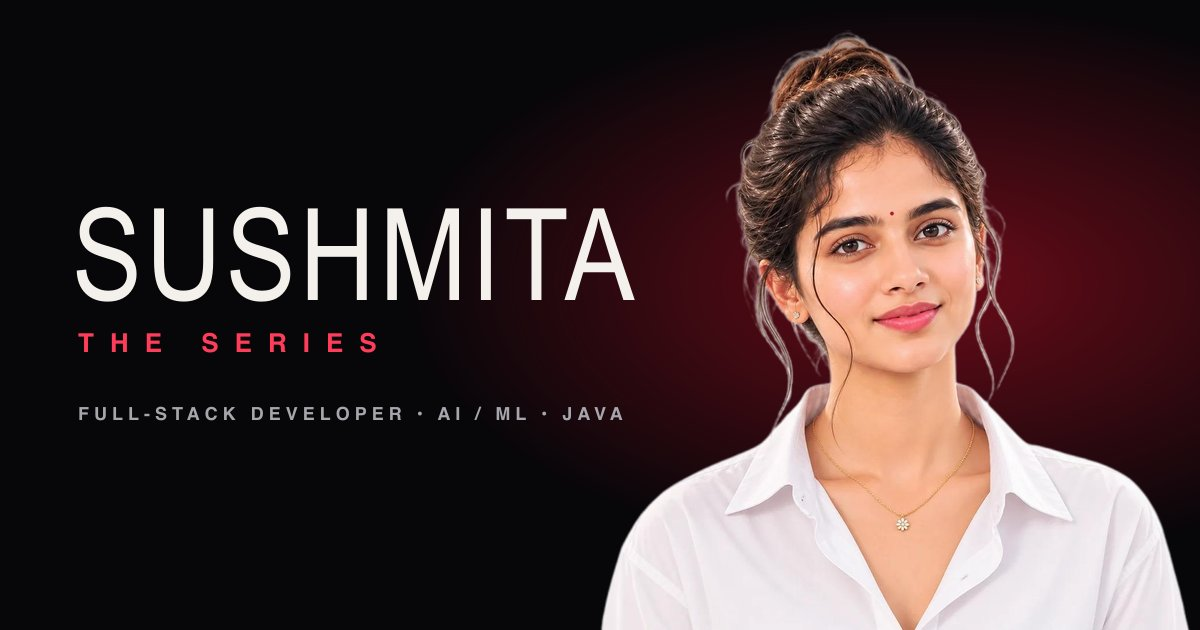
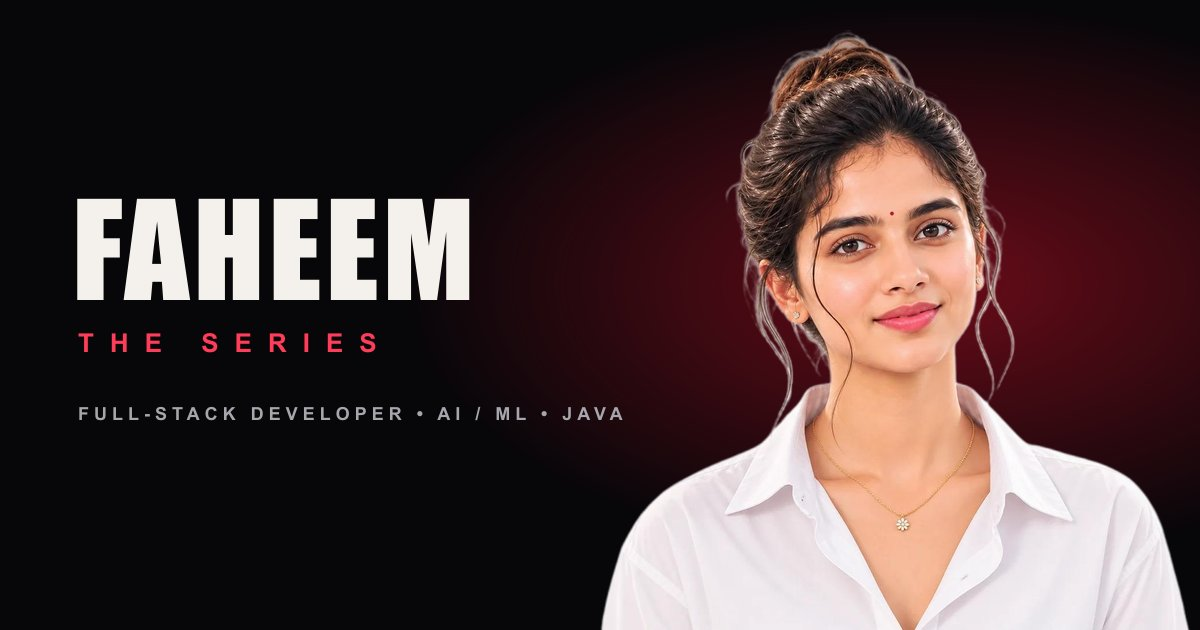
Rebrand portfolio for Faheem Tanoli
Update portfolio content, metadata, visuals, profile identifiers, and project branding from Sushmita Dasari to Faheem Ehsan Tanoli.

Changed region(s): [[0.0617, 0.3016, 0.5242, 0.4825], [0.2158, 0.5429, 0.2467, 0.573]]

diff --git a/src/data/portfolio.ts b/src/data/portfolio.ts
@@ -1,5 +1,5 @@
 /**
- * Central portfolio data — generated from Sushmita's resume (Sushmita_dasari.pdf).
+ * Central portfolio data — generated from the resume.
  * Every fact on the site comes from this file. Update it here and the whole site follows.
  * Nothing here should be added unless it appears on the resume.
  */
@@ -7,12 +7,12 @@
 export type Palette = { from: string; via: string; to: string; accent: string };
 
 export const profile = {
-  fullName: 'Dasari Venkata Ratna Sri Sushmita',
-  displayName: 'Sushmita Dasari',
-  firstName: 'SUSHMITA',
+  fullName: 'Faheem Ehsan Tanoli',
+  displayName: 'Faheem Ehsan Tanoli',
+  firstName: 'FAHEEM',
   seriesTag: 'THE SERIES',
   /** Fictional studio card shown at the very start of the opening sequence. */
-  originalLabel: 'A DASARI ORIGINAL',
+  originalLabel: 'A TANOLI ORIGINAL',
   role: 'Full-Stack Developer',
   tagline: ['Full-Stack Developer', 'AI / ML', 'Java'],
   intro:
@@ -27,7 +27,7 @@ export const profile = {
   portrait: {
     src: '/assets/portrait-720.webp',
     srcSet: '/assets/portrait-420.webp 420w, /assets/portrait-720.webp 720w, /assets/portrait-1100.webp 1100w',
-    alt: 'Portrait of Sushmita Dasari',
+    alt: 'Portrait of Faheem Ehsan Tanoli',
   },
   interests: ['System Design', 'Cloud Computing (AWS)', 'Machine Learning'],
 };
@@ -563,7 +563,7 @@ export const introSlides: IntroSlide[] = [
   },
 ];
 
-export type ProfileId = 'sushmita' | 'recruiter' | 'developer' | 'creative';
+export type ProfileId = 'faheem' | 'recruiter' | 'developer' | 'creative';
 export type SectionId = 'about' | 'journey' | 'originals' | 'picks' | 'skills' | 'moments' | 'story';
 
 export const viewerProfiles: {
@@ -574,8 +574,8 @@ export const viewerProfiles: {
   order: SectionId[];
 }[] = [
   {
-    id: 'sushmita',
-    name: 'Sushmita',
+    id: 'faheem',
+    name: 'Faheem',
     blurb: 'The full series, in order',
     color: '#e5132b',
     order: ['about', 'journey', 'originals', 'picks', 'skills', 'moments', 'story'],

diff --git a/src/components/ProfileSelector.tsx b/src/components/ProfileSelector.tsx
@@ -6,7 +6,7 @@ import { EASE } from './fx';
 export function ProfileAvatar({ id, size = 'lg' }: { id: ProfileId; size?: 'sm' | 'lg' }) {
   const p = viewerProfiles.find((v) => v.id === id)!;
   const box = size === 'lg' ? 'h-24 w-24 sm:h-32 sm:w-32 md:h-36 md:w-36 rounded-xl' : 'h-8 w-8 rounded-md';
-  if (id === 'sushmita') {
+  if (id === 'faheem') {
     return (
       <span className={`relative block overflow-hidden ${box}`} style={{ background: 'radial-gradient(circle at 50% 30%, #7a0f24, #1a0509)' }}>
         <img src="/assets/portrait-420.webp" alt="" className="absolute inset-x-0 bottom-0 mx-auto h-[115%] w-auto max-w-none -translate-x-[3%] object-cover object-top" />
@@ -27,7 +27,7 @@ export function ProfileAvatar({ id, size = 'lg' }: { id: ProfileId; size?: 'sm' 
 export default function ProfileSelector({ onPick }: { onPick: (id: ProfileId) => void }) {
   useEffect(() => {
     const onKey = (e: KeyboardEvent) => {
-      if (e.key === 'Escape') onPick('sushmita');
+      if (e.key === 'Escape') onPick('faheem');
     };
     window.addEventListener('keydown', onKey);
     return () => window.removeEventListener('keydown', onKey);
@@ -63,7 +63,7 @@ export default function ProfileSelector({ onPick }: { onPick: (id: ProfileId) =>
             <button type="button" onClick={() => onPick(p.id)} data-cursor="play" className="group flex flex-col items-center gap-3 text-center">
               <span className="relative rounded-xl ring-2 ring-transparent transition duration-300 group-hover:scale-105 group-hover:ring-bone group-focus-visible:ring-bone">
                 <ProfileAvatar id={p.id} />
-                {p.id === 'sushmita' && (
+                {p.id === 'faheem' && (
                   <span className="absolute -right-2 -top-2 rounded-full bg-crimson px-2 py-0.5 text-[9px] font-bold tracking-[0.18em] text-white">MAIN</span>
                 )}
               </span>

diff --git a/index.html b/index.html
@@ -3,10 +3,10 @@
   <head>
     <meta charset="UTF-8" />
     <meta name="viewport" content="width=device-width, initial-scale=1.0, viewport-fit=cover" />
-    <title>Sushmita — The Series</title>
-    <meta name="description" content="Sushmita Dasari — Full-Stack Developer and B.Tech AI & ML student. A cinematic, streaming-inspired portfolio." />
+    <title>Faheem Ehsan Tanoli — The Series</title>
+    <meta name="description" content="Faheem Ehsan Tanoli — Full-Stack Developer and B.Tech AI & ML student. A cinematic, streaming-inspired portfolio." />
     <meta name="theme-color" content="#07070a" />
-    <meta property="og:title" content="Sushmita — The Series" />
+    <meta property="og:title" content="Faheem Ehsan Tanoli — The Series" />
     <meta property="og:description" content="Full-Stack Developer • AI / ML • Java. Every project is an Original." />
     <meta property="og:image" content="/assets/og-image.jpg" />
     <meta name="twitter:card" content="summary_large_image" />
@@ -18,7 +18,7 @@
   </head>
   <body>
     <div id="root"></div>
-    <noscript>Sushmita Dasari — Full-Stack Developer. Please enable JavaScript to watch the series.</noscript>
+    <noscript>Faheem Ehsan Tanoli — Full-Stack Developer. Please enable JavaScript to watch the series.</noscript>
     <script type="module" src="/src/main.tsx"></script>
   </body>
 </html>

diff --git a/src/App.tsx b/src/App.tsx
@@ -26,7 +26,7 @@ const ResumeModal = lazy(() => import('./components/ResumeModal'));
 
 type Stage = 'opening' | 'profiles' | 'home';
 
-const STORAGE_KEY = 'sushmita-series-profile';
+const STORAGE_KEY = 'faheem-series-profile';
 
 function readStoredProfile(): ProfileId | null {
   try {
@@ -48,7 +48,7 @@ export default function App() {
 function Series() {
   const stored = readStoredProfile();
   const [stage, setStage] = useState<Stage>(stored ? 'home' : 'opening');
-  const [profileId, setProfileId] = useState<ProfileId>(stored ?? 'sushmita');
+  const [profileId, setProfileId] = useState<ProfileId>(stored ?? 'faheem');
   const [playing, setPlaying] = useState(false);
   const [project, setProject] = useState<Project | null>(null);
   const [resumeOpen, setResumeOpen] = useState(false);

diff --git a/src/components/ProjectModal.tsx b/src/components/ProjectModal.tsx
@@ -67,7 +67,7 @@ export default function ProjectModal({ project, onClose, onSwitch }: { project: 
             </button>
             <div className="absolute inset-x-0 bottom-0 px-5 pb-6 sm:px-10">
               <motion.p className="mb-2 flex items-center gap-2 text-[11px] font-bold tracking-[0.34em] text-bone/80" initial={{ opacity: 0 }} animate={{ opacity: 1 }} transition={{ delay: 0.3 }}>
-                <span className="font-display text-xl tracking-normal text-crimson-2">S</span> ORIGINAL
+                <span className="font-display text-xl tracking-normal text-crimson-2">F</span> ORIGINAL
               </motion.p>
               <motion.h2
                 id={`title-${project.id}-modal`}

diff --git a/src/components/Poster.tsx b/src/components/Poster.tsx
@@ -98,7 +98,7 @@ export function SeriesMark({ className = '' }: { className?: string }) {
   return (
     <span className={`inline-flex items-center gap-1.5 ${className}`}>
       <svg viewBox="0 0 24 32" className="h-[1.1em] w-auto" aria-hidden>
-        <path d="M18 6c-1.8-1.8-4-2.6-6.5-2.6C7.6 3.4 5 5.6 5 9c0 7.6 14 4.6 14 11.6 0 3-2.8 5-6.4 5-3 0-5.4-1.2-7.2-3" fill="none" stroke="#e5132b" strokeWidth="4" strokeLinecap="round" />
+        <path d="M7 28V5h12M7 16h9" fill="none" stroke="#e5132b" strokeWidth="4" strokeLinecap="round" strokeLinejoin="round" />
       </svg>
       <span className="font-sans text-[0.62em] font-bold tracking-[0.36em] text-mist">SERIES</span>
     </span>

diff --git a/src/components/ProjectCard.tsx b/src/components/ProjectCard.tsx
@@ -34,7 +34,7 @@ export default function ProjectCard({ project, index, onOpen }: { project: Proje
           </motion.div>
 
           <div className="absolute left-5 top-5 flex items-center gap-2 sm:left-7 sm:top-7">
-            <span className="font-display text-xl leading-none text-crimson-2">S</span>
+            <span className="font-display text-xl leading-none text-crimson-2">F</span>
             <span className="text-[10px] font-bold tracking-[0.34em] text-bone/80">ORIGINAL</span>
           </div>
           <span className="absolute right-5 top-5 rounded border border-white/30 px-1.5 py-px text-[10px] font-bold text-bone sm:right-7 sm:top-7">{project.year}</span>

diff --git a/src/components/ContinueWatching.tsx b/src/components/ContinueWatching.tsx
@@ -8,7 +8,7 @@ import { EASE, RevealText } from './fx';
 import { PosterBackdrop } from './Poster';
 import { RailButtons } from './Rail';
 
-const GLYPHS: Record<SectionId, string> = { about: 'S', journey: 'S01', originals: '3', picks: '10', skills: '{ }', moments: '★', story: 'CV' };
+const GLYPHS: Record<SectionId, string> = { about: 'F', journey: 'S01', originals: '3', picks: '10', skills: '{ }', moments: '★', story: 'CV' };
 
 export default function ContinueWatching({ order }: { order: SectionId[] }) {
   const progress = useWatchProgress();

diff --git a/src/components/TopPicks.tsx b/src/components/TopPicks.tsx
@@ -9,7 +9,7 @@ export default function TopPicks() {
   const rail = useRef<HTMLDivElement>(null);
   return (
     <>
-      <SectionHeading kicker="Top 10 · from the resume" title="Sushmita's Top Picks" />
+      <SectionHeading kicker="Top 10 · from the resume" title="Faheem's Top Picks" />
       <div className="group/rail relative">
         <div ref={rail} className="rail gutter flex snap-x snap-mandatory gap-2 overflow-x-auto py-6">
           {topPicks.map((pick, i) => (

diff --git a/src/components/OpeningSequence.tsx b/src/components/OpeningSequence.tsx
@@ -6,7 +6,7 @@ import { EASE, Magnetic } from './fx';
 
 /**
  * The signature moment:
- * black → studio card → SUSHMITA → THE SERIES → portrait reveal → role → ▶ PLAY
+ * black → studio card → FAHEEM → THE SERIES → portrait reveal → role → ▶ PLAY
  */
 const TIMELINE = [
   { at: 300, beat: 1 }, // studio card

diff --git a/README.md b/README.md
@@ -1,6 +1,6 @@
-# SUSHMITA — THE SERIES
+# FAHEEM — THE SERIES
 
-A cinematic, streaming-inspired portfolio for **Sushmita Dasari**: Full-Stack Developer and B.Tech AI & ML student.
+A cinematic, streaming-inspired portfolio for **Faheem Ehsan Tanoli**: Full-Stack Developer and B.Tech AI & ML student.
 Every section is an episode, every project is an Original, and the whole site plays like a series.
 
 > A personal portfolio with a fictional streaming-platform look. It is not affiliated with Netflix or any other streaming service and uses none of their logos.
@@ -58,7 +58,7 @@ src/
   data/portfolio.ts        ← single source of truth (from the resume)
   App.tsx                  ← stages: opening → profile select → home; overlays
   components/
-    OpeningSequence        ← black → studio card → SUSHMITA → THE SERIES → portrait → ▶ PLAY
+    OpeningSequence        ← black → studio card → FAHEEM → THE SERIES → portrait → ▶ PLAY
     ProfileSelector        ← "Who's watching?" (changes section order only)
     Navbar                 ← hide-on-scroll nav, profile switcher, mobile menu
     Hero                   ← billboard: parallax portrait, particles, light streaks, floating chips
